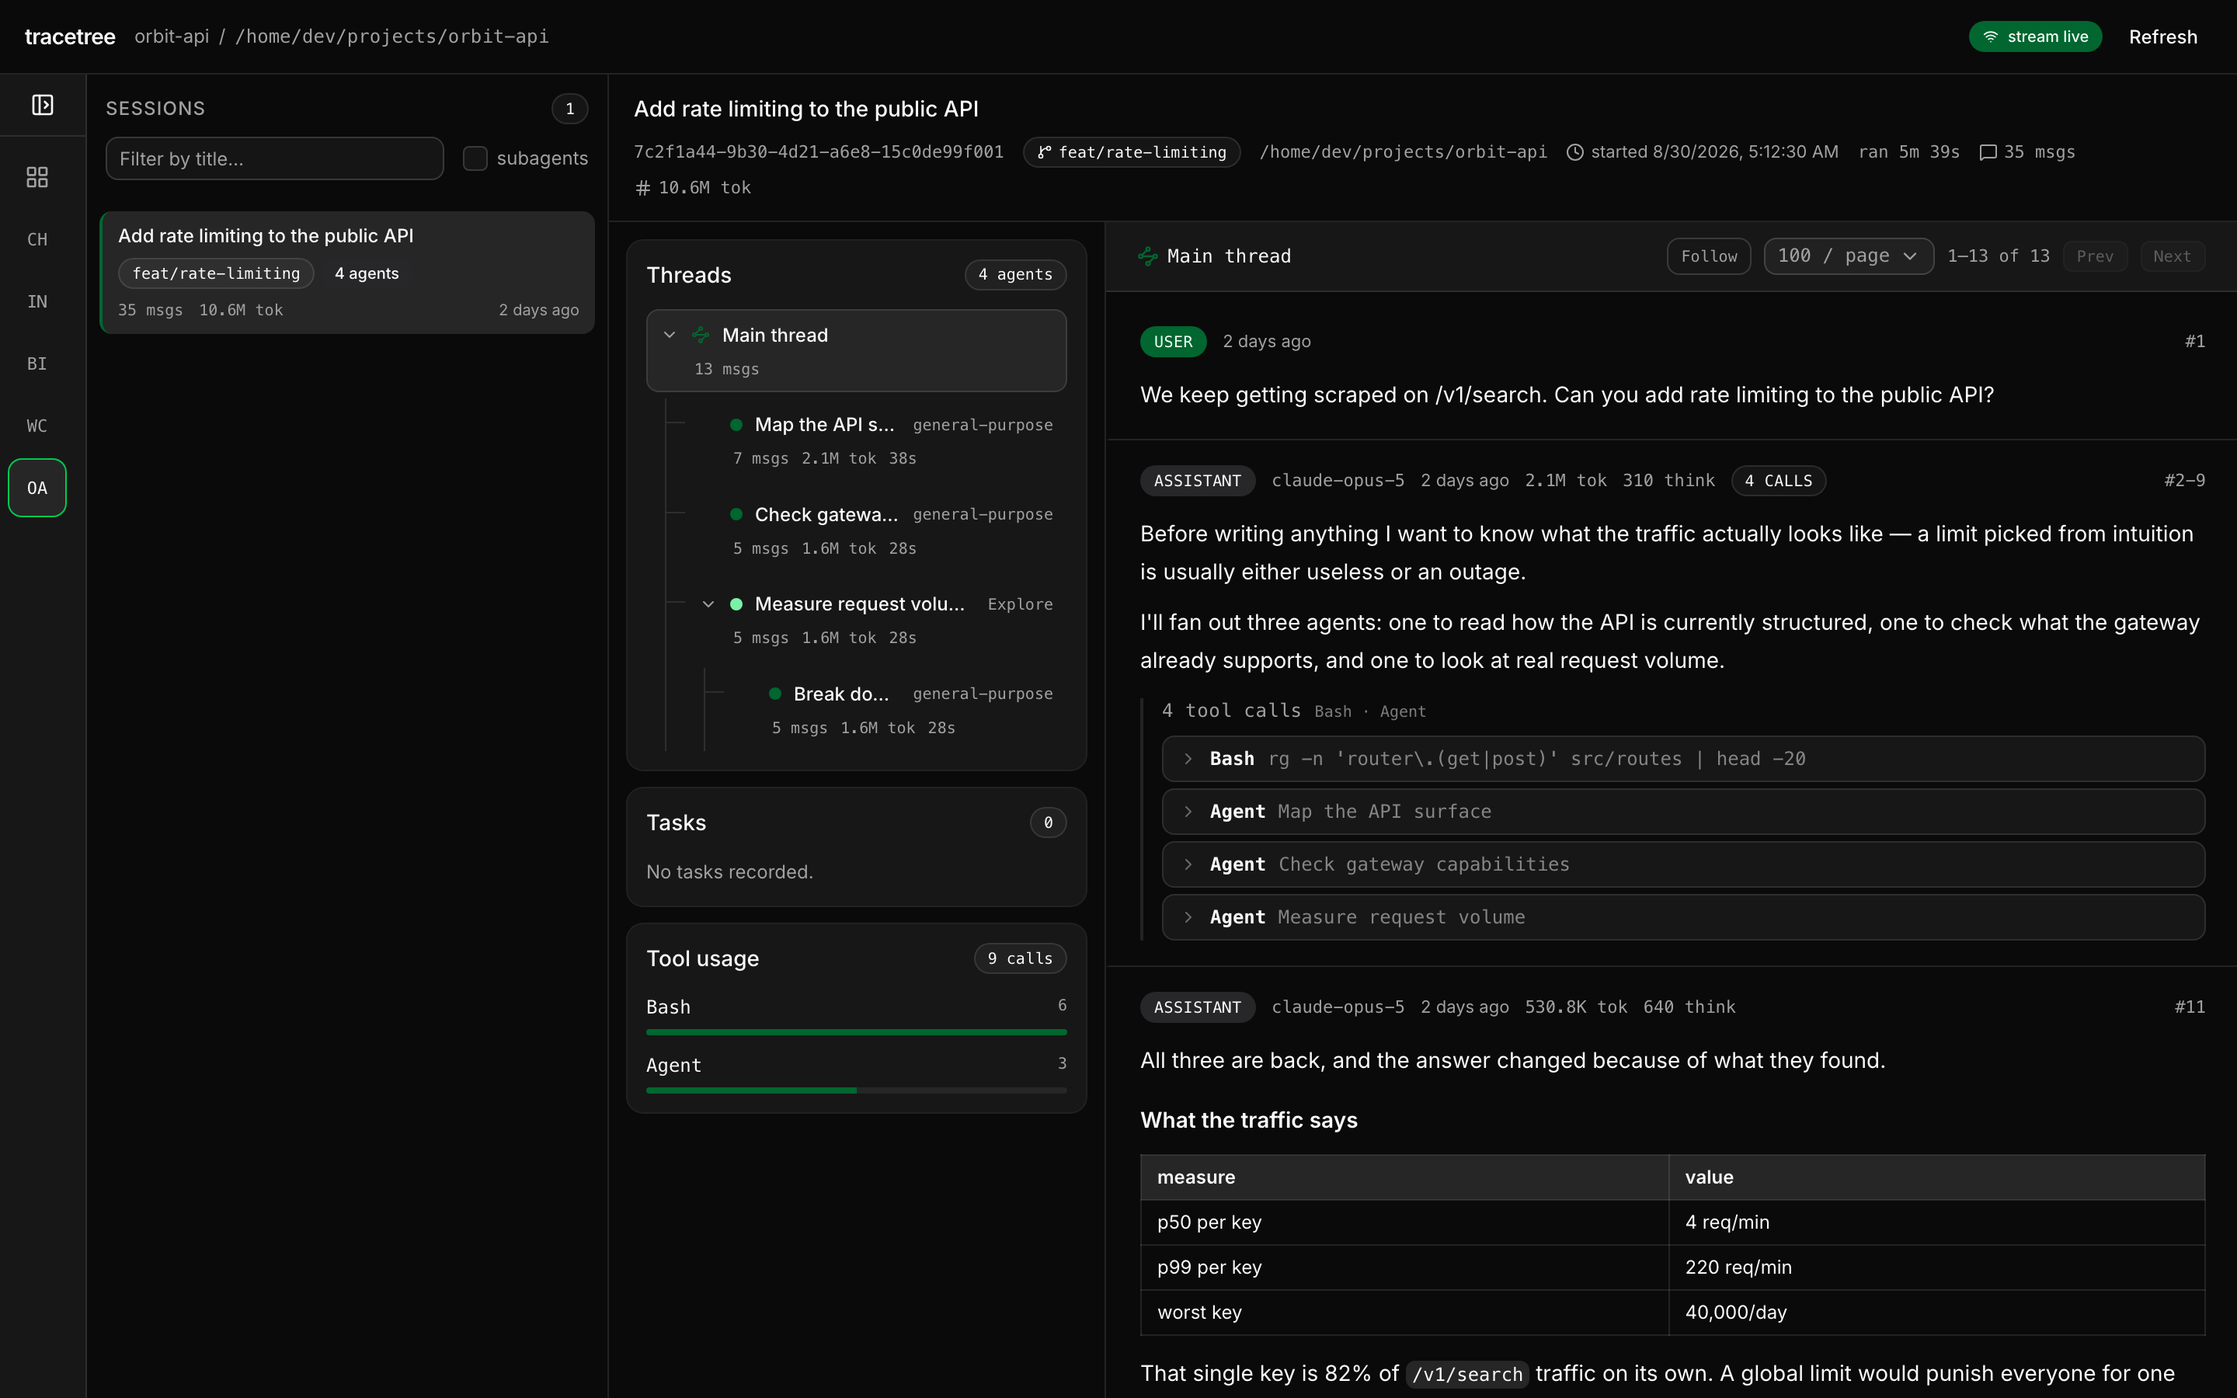
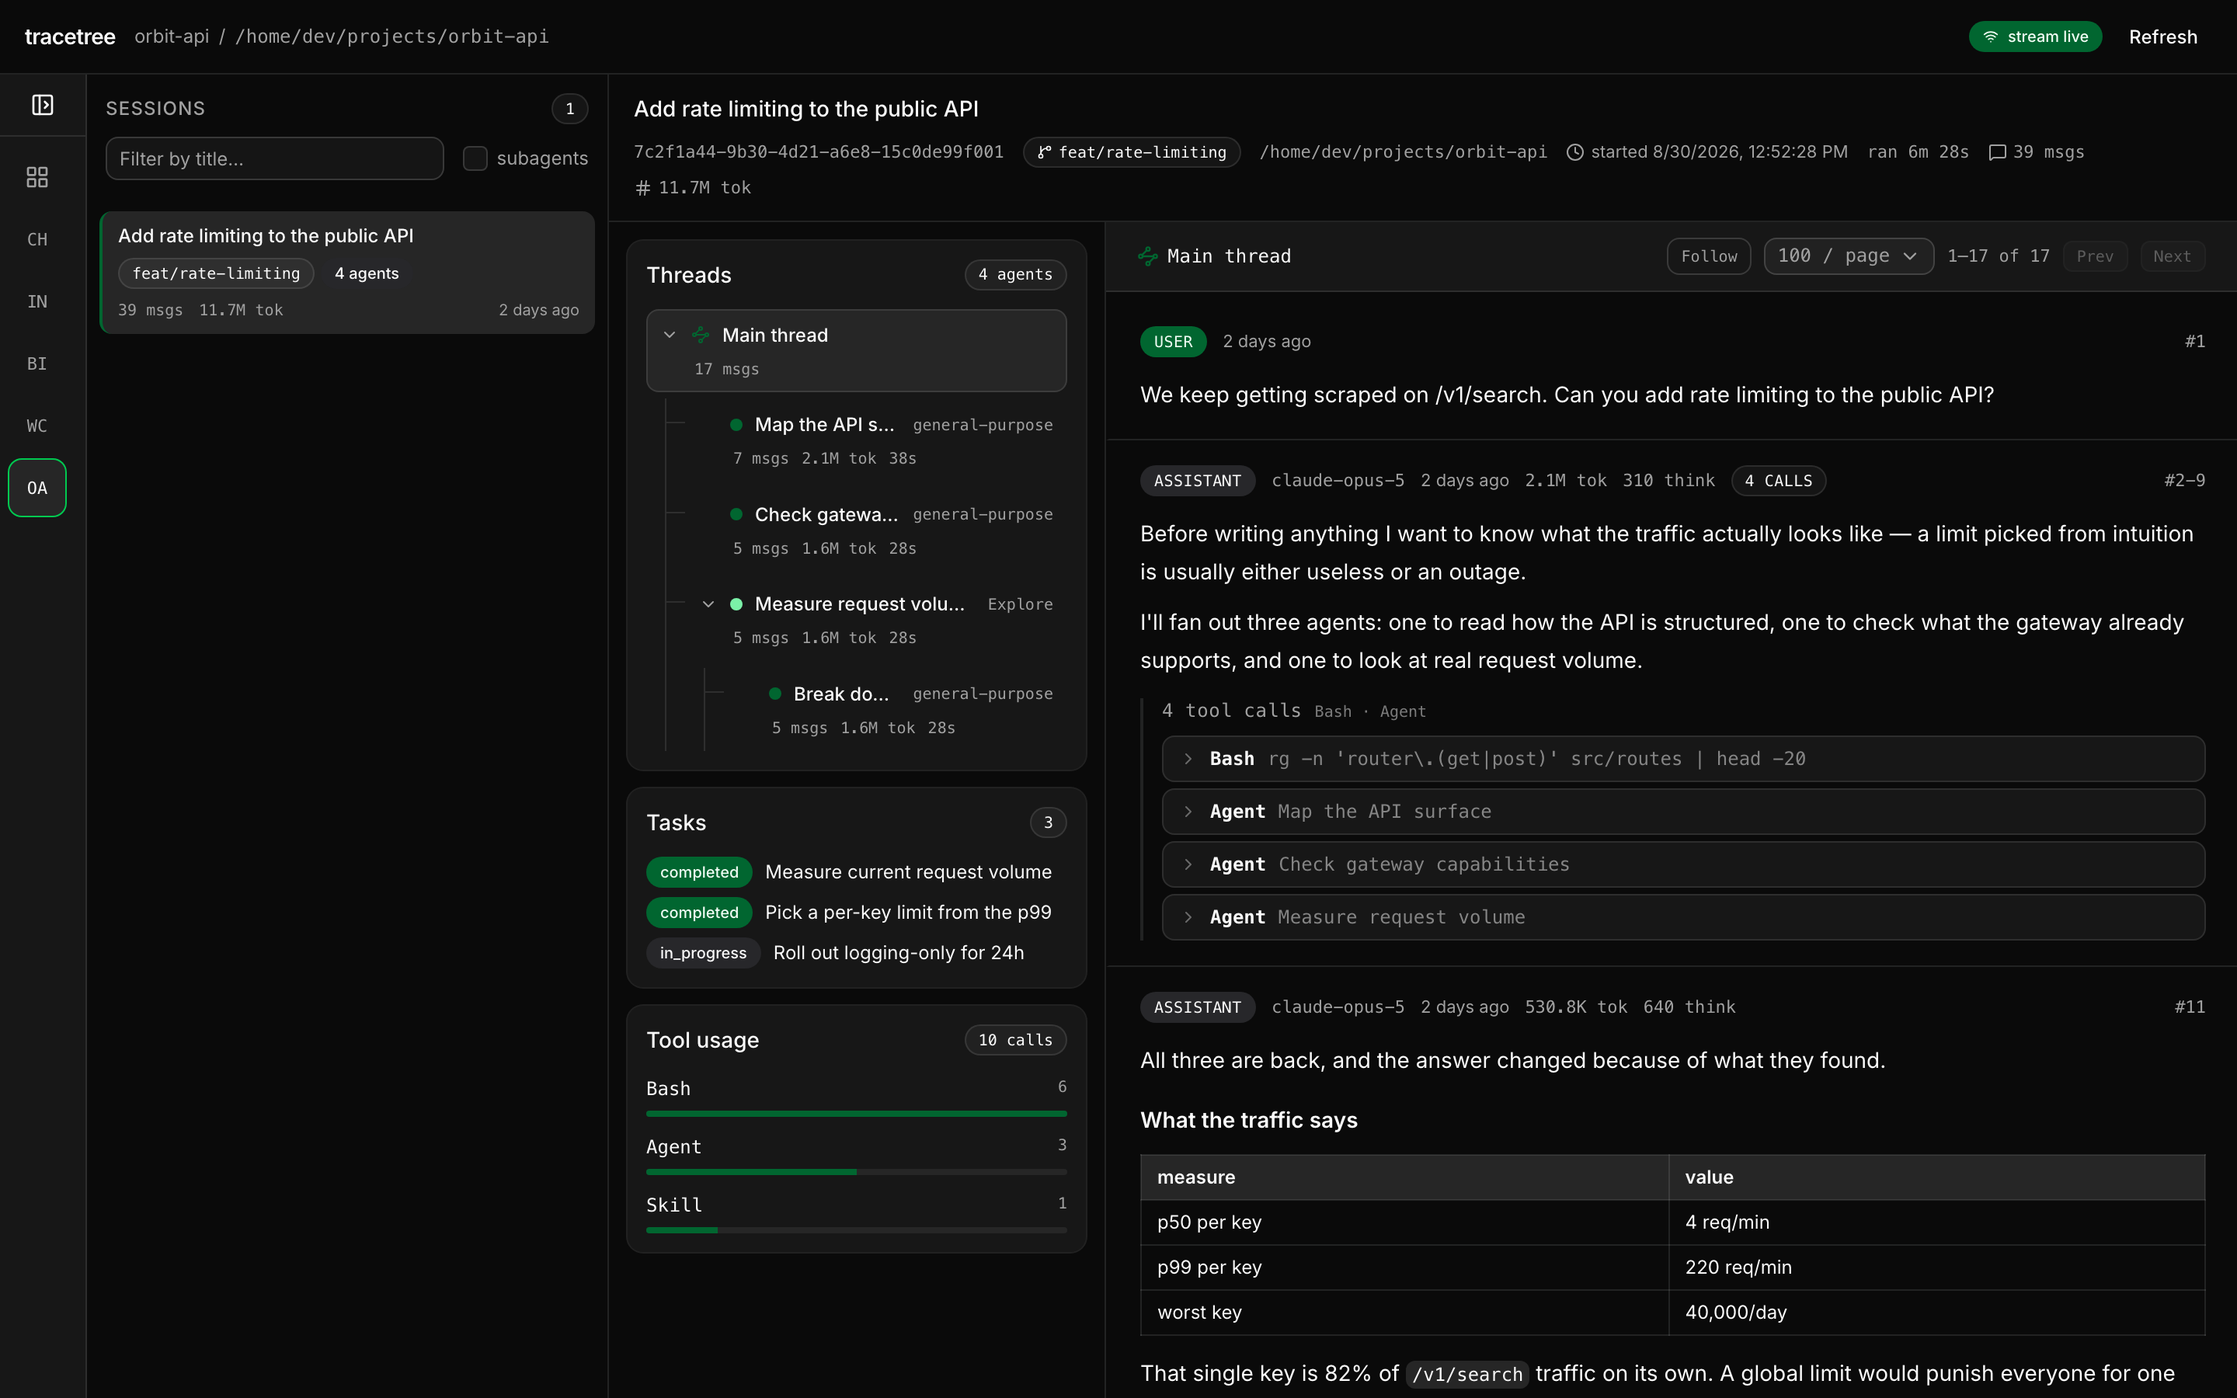
feat: add `bun run demo`, a synthetic ~/.claude to try it against
Reading your own transcripts is the point of the tool, which makes it useless to
anyone who has not used Claude Code yet and awkward to screenshot for a public
README. `bun run demo` writes a fake ~/.claude under .demo/, indexes it and
serves it, so the dashboard can be looked at without any history and the
screenshots can be regenerated without publishing real work.

The data exercises the parts worth seeing rather than being merely valid: a
session that fans out three agents and nests a fourth, a skill whose
instructions arrive detached from the call that loaded them, tasks in mixed
states, a markdown table and a fenced block, and five other projects so the
sidebar and overview are not a single row. Timestamps run backwards from now, so
relative times stay sensible whenever it is run.

It goes through the real ingest and server rather than reimplementing them, so
the demo breaks if the reader does.

Screenshots regenerated from it. The previous pair was taken before the app was
renamed and, as it turns out, with the subagent metadata missing: this script
writes that metadata eagerly while transcript lines are buffered, and clearing
the output directory at write time deleted files it had already produced. The
tree rendered flat as a result. Cleanup now happens before anything is written.

diff --git a/scripts/demo.ts b/scripts/demo.ts
@@ -1,0 +1,287 @@
+#!/usr/bin/env bun
+/**
+ * Builds a synthetic `~/.claude` and serves the dashboard over it.
+ *
+ * Two uses: trying tracetree without any Claude Code history of your own, and
+ * regenerating the README screenshots from data that is safe to publish. The
+ * shapes written here mirror the real transcript format closely enough to
+ * exercise the reader — an `ai-title` line, messages split across lines that
+ * share a request id, tool_use blocks answered by `tool_result` lines, a skill
+ * whose instructions arrive detached from the call that loaded them, a
+ * `subagents/` directory whose `meta.json` carries the spawn edge, and tasks.
+ *
+ *   bun run demo              generate, index and serve on :4300
+ *   bun run demo --port 5000  somewhere else
+ *   bun run demo --no-serve   just write the tree and the index
+ */
+import { mkdirSync, rmSync, writeFileSync } from "node:fs";
+import { dirname, join } from "node:path";
+
+import { openDb } from "../src/db.ts";
+import { ingest } from "../src/ingest.ts";
+import { startServer } from "../src/server.ts";
+
+const HERE = join(import.meta.dirname, "..");
+const ROOT = join(HERE, ".demo", "claude");
+const DB = join(HERE, ".demo", "index.db");
+const MODEL = "claude-opus-5";
+
+const argv = Bun.argv.slice(2);
+const flag = (name: string) => argv.includes(`--${name}`);
+const value = (name: string, fallback: number) => {
+  const i = argv.indexOf(`--${name}`);
+  const raw = i === -1 ? undefined : argv[i + 1];
+  const parsed = Number(raw);
+  return Number.isFinite(parsed) && parsed > 0 ? parsed : fallback;
+};
+
+// Timestamps run backwards from now, so relative times read naturally whenever
+// the demo is run rather than drifting to "8 months ago".
+let clock = Date.now() - 2 * 24 * 60 * 60 * 1000;
+const at = (stepSeconds = 7) => new Date((clock += stepSeconds * 1000)).toISOString();
+
+// Cleared up front, not at write time: the subagent metadata below is written
+// eagerly while transcript lines are buffered, so wiping later deleted files
+// this script had already produced.
+rmSync(join(HERE, ".demo"), { recursive: true, force: true });
+
+let counter = 0;
+const uuid = () => `00000000-0000-4000-8000-${String(++counter).padStart(12, "0")}`;
+
+interface Ctx {
+  sessionId: string;
+  cwd: string;
+  branch: string;
+  agentId?: string;
+}
+
+const envelope = (c: Ctx) => ({
+  parentUuid: null,
+  isSidechain: c.agentId !== undefined,
+  userType: "external",
+  entrypoint: "cli",
+  cwd: c.cwd,
+  sessionId: c.sessionId,
+  version: "2.1.252",
+  gitBranch: c.branch,
+  ...(c.agentId === undefined ? {} : { agentId: c.agentId }),
+});
+
+const usage = (out: number, thinking = 0) => ({
+  input_tokens: 3,
+  cache_creation_input_tokens: 18_400,
+  cache_read_input_tokens: 512_000,
+  output_tokens: out,
+  ...(thinking === 0 ? {} : { output_tokens_details: { thinking_tokens: thinking } }),
+});
+
+const files = new Map<string, string[]>();
+const write = (file: string, line: unknown) => {
+  const rows = files.get(file) ?? [];
+  rows.push(JSON.stringify(line));
+  files.set(file, rows);
+};
+
+const title = (file: string, c: Ctx, aiTitle: string) =>
+  write(file, { ...envelope(c), type: "ai-title", uuid: uuid(), timestamp: at(0), aiTitle });
+
+const user = (file: string, c: Ctx, text: string) =>
+  write(file, {
+    ...envelope(c),
+    type: "user",
+    uuid: uuid(),
+    timestamp: at(30),
+    message: { role: "user", content: [{ type: "text", text }] },
+  });
+
+const say = (file: string, c: Ctx, text: string, requestId: string, thinking = 0) =>
+  write(file, {
+    ...envelope(c),
+    type: "assistant",
+    uuid: uuid(),
+    requestId,
+    timestamp: at(9),
+    message: {
+      role: "assistant",
+      model: MODEL,
+      content: [{ type: "text", text }],
+      usage: usage(420, thinking),
+    },
+  });
+
+/** A tool call and the `user` line that answers it, as the transcript stores them. */
+const call = (
+  file: string,
+  c: Ctx,
+  requestId: string,
+  name: string,
+  input: unknown,
+  result: string,
+) => {
+  const id = `toolu_${String(++counter).padStart(10, "0")}`;
+  write(file, {
+    ...envelope(c),
+    type: "assistant",
+    uuid: uuid(),
+    requestId,
+    timestamp: at(4),
+    message: {
+      role: "assistant",
+      model: MODEL,
+      content: [{ type: "tool_use", id, name, input }],
+      usage: usage(180),
+    },
+  });
+  write(file, {
+    ...envelope(c),
+    type: "user",
+    uuid: uuid(),
+    timestamp: at(6),
+    message: { role: "user", content: [{ type: "tool_result", tool_use_id: id, content: result }] },
+  });
+};
+
+// ---------------------------------------------------------------------------
+// The session worth looking at: prose, markdown, a skill, and a spawn tree.
+// ---------------------------------------------------------------------------
+const SESSION = "7c2f1a44-9b30-4d21-a6e8-15c0de99f001";
+const CWD = "/home/dev/projects/orbit-api";
+const SLUG = "-home-dev-projects-orbit-api";
+const main: Ctx = { sessionId: SESSION, cwd: CWD, branch: "feat/rate-limiting" };
+const file = join(ROOT, "projects", SLUG, `${SESSION}.jsonl`);
+
+title(file, main, "Add rate limiting to the public API");
+user(file, main, "We keep getting scraped on /v1/search. Can you add rate limiting to the public API?");
+say(
+  file,
+  main,
+  "Before writing anything I want to know what the traffic actually looks like — a limit picked from intuition is usually either useless or an outage.\n\nI'll fan out three agents: one to read how the API is structured, one to check what the gateway already supports, and one to look at real request volume.",
+  "req_a1",
+  310,
+);
+call(
+  file,
+  main,
+  "req_a1",
+  "Bash",
+  { command: "rg -n 'router\\.(get|post)' src/routes | head -20", description: "List route handlers" },
+  "src/routes/search.ts:12:router.get('/v1/search', handler)\nsrc/routes/docs.ts:8:router.get('/v1/docs', handler)",
+);
+call(file, main, "req_a2", "Agent", { description: "Map the API surface", subagent_type: "general-purpose", prompt: "Inventory every public route." }, "14 public routes; /v1/search is 82% of traffic.");
+call(file, main, "req_a3", "Agent", { description: "Check gateway capabilities", subagent_type: "general-purpose", prompt: "What does the gateway support natively?" }, "Envoy is already in front and ships local_ratelimit.");
+call(file, main, "req_a4", "Agent", { description: "Measure request volume", subagent_type: "Explore", prompt: "Pull 30 days of request counts." }, "p50 4 req/min per key, p99 220 req/min, one key at 40k/day.");
+say(
+  file,
+  main,
+  "All three are back, and the answer changed because of what they found.\n\n## What the traffic says\n\n| measure | value |\n|---|---|\n| p50 per key | 4 req/min |\n| p99 per key | 220 req/min |\n| worst key | 40,000/day |\n\nThat single key is 82% of `/v1/search` traffic on its own. A global limit would punish everyone for one client, so this wants a **per-key** limit, not a per-route one.\n\n## Where it belongs\n\nEnvoy already sits in front and ships `local_ratelimit`, so the limit belongs in the gateway rather than in application code — it costs no request latency and survives a process restart.\n\n```yaml\ntoken_bucket:\n  max_tokens: 300\n  fill_interval: 60s\n```\n\n300/min leaves the p99 client untouched and still cuts the outlier by 95%.",
+  "req_a5",
+  640,
+);
+user(file, main, "That works. Ship it behind a flag so we can back it out quickly.");
+
+// A skill: the call carries a stub, and the instructions arrive as their own line.
+say(file, main, "Flagging it and opening the PR with the `file-pr` skill.", "req_a6", 120);
+call(file, main, "req_a6", "Skill", { skill: "file-pr" }, "Launching skill: file-pr");
+user(
+  file,
+  main,
+  "Base directory for this skill: /home/dev/.claude/skills/file-pr\n\n# File PR\n\nBefore filing, check whether a PR for this branch already exists. Review the diff locally against the base branch to make sure its contents match the goal.\n\nPR titles usually become commit messages, so follow the repository's conventions. Prefer a concise title that explains why the change matters.\n\nKeep the description to what a reviewer needs: what changed, why, and how it was verified.",
+);
+say(
+  file,
+  main,
+  "Opened as **#412**, limit logging-only for the first 24 hours so you can see who *would* have been throttled before anything actually is.",
+  "req_a7",
+  95,
+);
+
+// The three subagents, one of which nests a fourth.
+const agents = [
+  { id: "a1f0c3e77b21d4a90", type: "general-purpose", desc: "Map the API surface", work: [["rg -c 'router\\.' src/routes/*.ts", "search.ts:1\ndocs.ts:1\nkeys.ts:3"], ["cat src/routes/search.ts", "export const handler = async (req, res) => { /* ... */ }"]] },
+  { id: "b2e4d5a11c37f6b80", type: "general-purpose", desc: "Check gateway capabilities", work: [["envoy --version", "envoy version 1.29.1"]] },
+  { id: "c3d5e6b22a4807c91", type: "Explore", desc: "Measure request volume", work: [["bq query 'select count(*) from requests'", "rows: 1\ntotal: 2,481,309"]] },
+  { id: "d4c6f7a33b5918d02", type: "general-purpose", desc: "Break down the outlier key", parent: "c3d5e6b22a4807c91", work: [["bq query 'select key, count(*) ...'", "key_9f2a: 40,113\nkey_1b77: 3,004"]] },
+] as const;
+
+for (const agent of agents) {
+  const dir = join(ROOT, "projects", SLUG, SESSION, "subagents");
+  mkdirSync(dir, { recursive: true });
+  writeFileSync(
+    join(dir, `agent-${agent.id}.meta.json`),
+    JSON.stringify({
+      agentType: agent.type,
+      description: agent.desc,
+      toolUseId: `toolu_${agent.id.slice(0, 10)}`,
+      ..."parent" in agent
+        ? { parentAgentId: agent.parent, spawnDepth: 2 }
+        : { spawnDepth: 1 },
+    }),
+  );
+
+  const af = join(dir, `agent-${agent.id}.jsonl`);
+  const ctx: Ctx = { ...main, agentId: agent.id };
+  const req = `req_${agent.id.slice(0, 4)}`;
+  user(af, ctx, agent.desc);
+  say(af, ctx, `Starting on: ${agent.desc.toLowerCase()}.`, req, 90);
+  for (const [command, out] of agent.work) {
+    call(af, ctx, req, "Bash", { command, description: agent.desc }, out);
+  }
+  say(af, ctx, `Done. ${agent.desc} complete.`, `${req}b`, 40);
+}
+
+// ---------------------------------------------------------------------------
+// Enough other projects that the sidebar and overview are not a single row.
+// ---------------------------------------------------------------------------
+const others = [
+  ["-home-dev-projects-web-client", "/home/dev/projects/web-client", "Fix hydration mismatch on the dashboard", "main"],
+  ["-home-dev-projects-web-client", "/home/dev/projects/web-client", "Migrate the table to virtualised rows", "perf/virtual-rows"],
+  ["-home-dev-projects-billing", "/home/dev/projects/billing", "Reconcile Stripe webhooks", "main"],
+  ["-home-dev-projects-infra", "/home/dev/projects/infra", "Rotate the staging certificates", "main"],
+  ["-home-dev-tools-changelog", "/home/dev/tools/changelog", "Generate release notes from commits", "main"],
+] as const;
+
+others.forEach(([slug, cwd, sessionTitle, branch], i) => {
+  const sid = `7c2f1a44-9b30-4d21-a6e8-15c0de99f1${String(i + 10).padStart(2, "0")}`;
+  const ctx: Ctx = { sessionId: sid, cwd, branch };
+  const of = join(ROOT, "projects", slug, `${sid}.jsonl`);
+  title(of, ctx, sessionTitle);
+  user(of, ctx, `${sessionTitle}?`);
+  say(of, ctx, "Looking at it now.", `req_o${i}`, 60);
+  call(of, ctx, `req_o${i}`, "Read", { file_path: `${cwd}/src/index.ts` }, "export function main() {}");
+  say(of, ctx, `Done — ${sessionTitle.toLowerCase()} is handled.`, `req_o${i}b`, 45);
+});
+
+// ---------------------------------------------------------------------------
+// Write it all out.
+// ---------------------------------------------------------------------------
+for (const [path, rows] of files) {
+  mkdirSync(dirname(path), { recursive: true });
+  writeFileSync(path, `${rows.join("\n")}\n`);
+}
+
+const tasks = [
+  { id: "1", subject: "Measure current request volume", status: "completed", activeForm: "Measuring request volume" },
+  { id: "2", subject: "Pick a per-key limit from the p99", status: "completed", activeForm: "Choosing the limit" },
+  { id: "3", subject: "Roll out logging-only for 24h", status: "in_progress", activeForm: "Rolling out behind a flag" },
+];
+const taskDir = join(ROOT, "tasks", SESSION);
+mkdirSync(taskDir, { recursive: true });
+for (const task of tasks) {
+  writeFileSync(join(taskDir, `${task.id}.json`), JSON.stringify({ ...task, blocks: [], blockedBy: [] }, null, 2));
+}
+mkdirSync(join(ROOT, "sessions"), { recursive: true });
+
+console.log(`wrote ${files.size} transcripts to ${ROOT}`);
+
+const db = openDb(DB);
+const summary = ingest(db, { root: ROOT, full: true });
+console.log(`indexed ${summary.sessions} sessions, ${summary.agents} agents, ${summary.messages} messages`);
+
+if (flag("no-serve")) {
+  db.close();
+  console.log(`\nServe it with:\n  bun run serve --root ${ROOT} --db ${DB}`);
+} else {
+  const server = startServer({ db, root: ROOT, port: value("port", 4300) });
+  console.log(`\ndemo dashboard  ${server.url}`);
+  console.log(`  the session to look at is "Add rate limiting to the public API"`);
+}

diff --git a/README.md b/README.md
@@ -25,7 +25,7 @@ that agent's own thread.
 
 </details>
 
-> Screenshots use synthetic data, not a real session.
+> Screenshots come from `bun run demo`, not a real session.
 
 ## Requirements
 
@@ -42,6 +42,21 @@ bun run serve       # dashboard on http://localhost:4000
 
 `serve` catches the index up first, then watches for changes, so a session you
 start afterwards appears on its own.
+
+## Try it without your own history
+
+```bash
+bun run demo
+```
+
+Writes a synthetic `~/.claude` under `.demo/`, indexes it, and serves it on
+:4300 — six sessions across five invented projects, one of which fans out three
+agents and nests a fourth, with a skill invocation, tasks and enough markdown to
+exercise the renderer. Nothing is read from your real transcripts and nothing is
+written outside `.demo/`, which is gitignored and rebuilt from scratch each run.
+
+It is also how the screenshots above are produced, so they can be regenerated
+without publishing anyone's work. `--no-serve` stops after building the index.
 
 ## Commands
 
